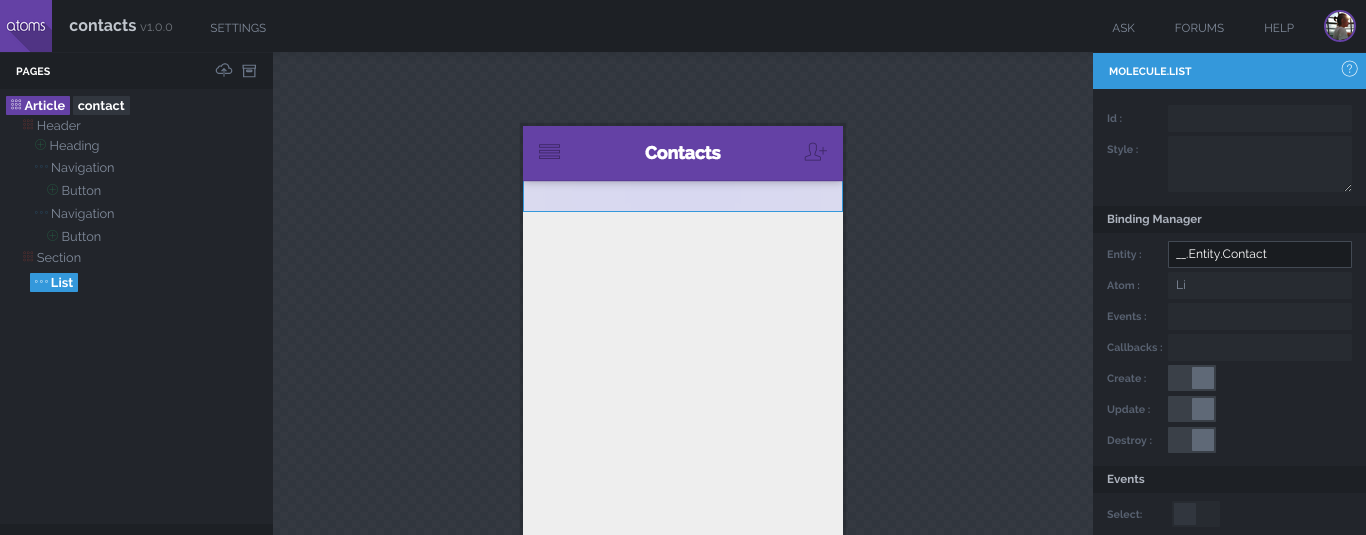
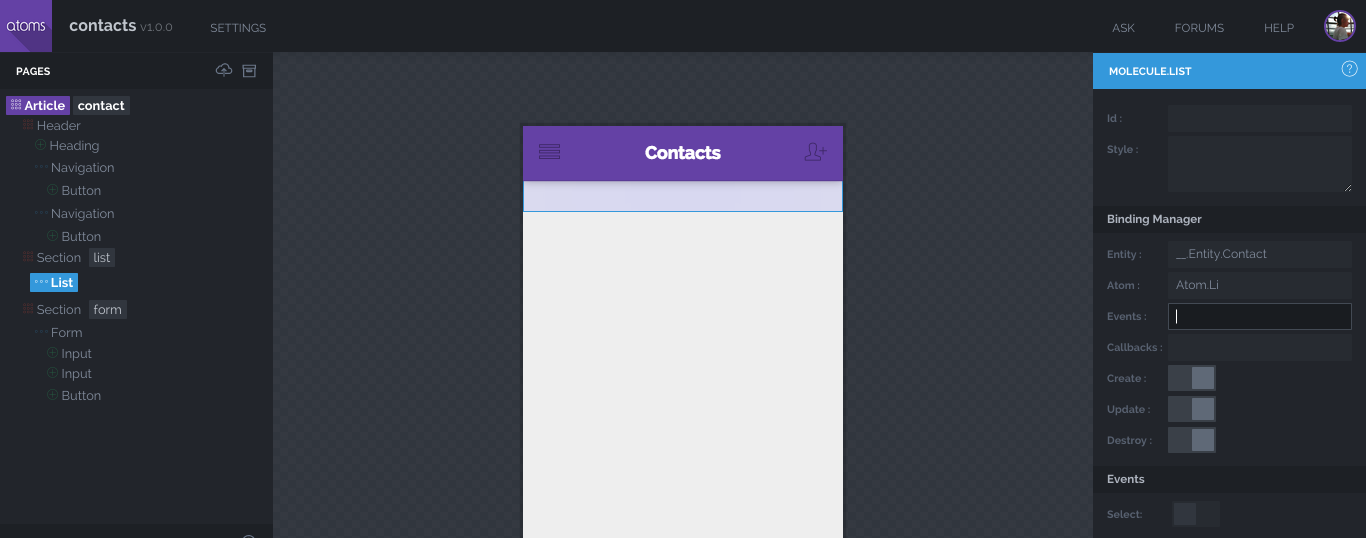
Create a contact

diff --git a/zen.js b/zen.js
@@ -1,0 +1,3 @@
+"use strict"
+
+require('zenserver').start();

diff --git a/README.md b/README.md
@@ -114,7 +114,7 @@ Al ejecutar el comando `gulp` se nos levantará un server en el puerto 8000. Com
 ![image](assets/img/screen-10.png)
 
 ## 3. Code
-Es momento de interactuar con el scaffod y el coffee. Desde nuestro editor de código, vayamos a la carpeta **Ormanisms**. Al haber creado un único organismo *contact* vemos que solamente tenemos un fichero yaml que contiene el scaffold y el coffee que tendrá la lógica.
+Es momento de interactuar con el scaffod y el coffee. Desde nuestro editor de código, vamos a la carpeta **Organisms**. Al haber creado un único organismo *contact* vemos que solamente tenemos un fichero yaml que contiene el scaffold y el coffee que tendrá la lógica.
 
 ### 3.1. Coffee
 
@@ -133,16 +133,16 @@ class Atoms.Organism.Contact extends Atoms.Organism.Article
 new Atoms.Organism.Contact()
 ```
 
-El fichero coffee viene con dos funciones declaradas. Esto es porque hemos dejado el *select* del atributo **events** activado en los tres elementos y el nombre por defecto que le asigna Atoms cuando no personalizamos el callback es *onElementEvent*:
+El fichero coffee viene con dos funciones declaradas. Esto es porque hemos dejado el *select* del atributo **events** activado en los tres elementos (buttons y form) y el nombre por defecto que le asigna Atoms cuando no personalizamos el callback es *onElementEvent*:
 
 ![image](assets/img/screen-11.png)
 
 #### 3.1.1. Capturando el evento
-Te invito a que pongas logs en la función *onFormSubmit* y veas qué nos llega al hacer click en **Save** en *event*, *dispatcher*, *hierarchy*.
+Te invito a que pongas logs en la función **onFormSubmit** y veas qué nos llega al hacer click en **Save** en *event*, *dispatcher*, *hierarchy*.
 
 Si los analizas verás que lo elementos hablan por si solos pero te confirmo que *hierarchy* te dice por qué "padres" pasa el evento.
 
-Para recuperar los datos del formulario, utiliza *dispatcher.value()*:
+Puedes recuperar los datos del formulario con *dispatcher.value()*:
 
  ```coffee
   onFormSubmit: (event, dispatcher, hierarchy...) ->
@@ -151,5 +151,214 @@ Para recuperar los datos del formulario, utiliza *dispatcher.value()*:
 
 ![image](assets/img/screen-12.png)
 
+### 3.2. Backend
+Este ejemplo pretende enseñar el flujo de comunicación desde la app hasta el backend que porcesará y almacenará los datos del formulario. Para el manejo de servidores HTTP utilizaremos [ZENServer](https://github.com/soyjavi/zen-server) que se caracteriza por ser ligero en cuanto a dependencias.
+
+Para utilizar ZENServer lo instalamos de la siguiente manera:
+
+```bash
+$ npm install zenserver --save
+```
+
+#### 3.2.1. ZENServer
+Nuestro pequeño backend tendrá una API para guardar y devolver los contactos y utilizaremos MongoDB para la persistencia de los datos.
+
+Así, siguiendo la estructura de fichero que maneja ZENServer vamos a añadir a nuestro proyecto los siguiente ficheros y directorios:
+
+```
+.
+├── api
+│   └── contact.coffee
+├── common
+│   └── models
+│       └── contact.coffee
+├── environment
+│   └── dev.yml
+├── zen.js
+├── zen.yml
+```
+Añade el siguiente contenido a los fichero zen.js y zen.yml:
+
+*zen.js*:
+
+```js
+"use strict"
+require('zenserver').start();
+```
+*zen.yml*
+
+```yaml
+# -- RESTful services ----------------------------------------------------------
+api:
+  - contact
+
+# -- Environment ---------------------------------------------------------------
+environment: dev
+
+# -- CORS Properties -----------------------------------------------------------
+headers:
+  Access-Control-Allow-Origin: "*"
+  Access-Control-Allow-Credentials: true
+  Access-Control-Allow-Methods: GET,PUT,POST,DELETE
+  Access-Control-Max-Age: 1
+  Access-Control-Allow-Headers:
+    - Accept
+    - Accept-Version
+    - Content-Length
+    - Content-MD5
+    - Content-Type
+    - Date
+    - Api-Version
+    - Response-Time
+    - Authorization
+  Access-Control-Expose-Headers:
+    - api-version
+    - content-length
+    - content-md5
+    - content-type
+    - date
+    - request-id
+    - response-time
+```
+Para saber más sobre ZENServer, no olvides consultar su [documentación](https://github.com/soyjavi/zen-server/tree/master/documentation/ES) ;)
+
+Siguiendo con la configuración de los demás ficheros, nos queda establecer los datos del entorno dev. Así, *dev.yml* contiene la siguiente información:
+
+```yaml
+# -- General Info --------------------------------------------------------------
+host    : localhost
+port    : 8888
+timezone: Europe/Amsterdam
+
+# -- Services ------------------------------------------------------------------
+mongo:
+  - name    : primary
+    host    : 127.0.0.1
+    port    : 27017
+    db      : contact
+```
+Si tu MongoDB requiere autenticación, añade los campos `user` y `password` a `mongo`.
+
+#### 3.2.2. API y Modelo
+Empecemos a establecer los parámetros de nuestro modelo de Mongo. Para este ejemplo he querido hacerlo súper sencillo y por lo tanto mi modelo lo he configurado de la siguiente manera:
+
+```coffee
+"use strict"
+
+Hope    = require("zenserver").Hope
+Schema  = require("zenserver").Mongoose.Schema
+db      = require("zenserver").Mongo.connections.primary
+
+Contact = new Schema
+  name      : type: String
+  avatar    : type: String
+  phone     : type: Number
+  updated_at: type: Date
+  created_at: type: Date, default: Date.now
+
+# -- Static methods ------------------------------------------------------------
+Contact.statics.register = (parameters) ->
+  promise = new Hope.Promise()
+  today = new Date()
+  parameters.avatar = "http://robohash.org/#{today.getMilliseconds()}.png"
+  contact = db.model "Contact", Contact
+  new contact(parameters).save (error, value) -> promise.done error, value
+  promise
+
+Contact.statics.search = (filter) ->
+  promise = new Hope.Promise()
+  @find(filter).exec (error, value) -> promise.done error, value
+  promise
+
+# -- Static methods ------------------------------------------------------------
+Contact.methods.parse = ->
+  name      : @name
+  avatar    : @avatar
+  phone     : @phone
+  updated_at: @updated_at
+  created_at: @created_at
+
+exports = module.exports = db.model "Contact", Contact
+```
+Y mi fichero con los endpoints ha quedado así:
+
+```coffee
+"use strict"
+
+Contact = require "../common/models/contact"
+
+module.exports = (server) ->
+
+  server.get "/api/contact", (request, response) ->
+    Contact.search().then (error, result) ->
+      if error
+        response.json message: error.message, error.code
+      else
+        response.json contacts: (contact.parse() for contact in result)
 
 
+  server.post "/api/contact", (request, response) ->
+    if request.required ["name", "phone"]
+      Contact.register(request.parameters).then (error, result) ->
+        if error
+          response.json message: error.message, error.code
+        else
+          response.json contact: result.parse()
+```
+
+### 3.3. Vuelta al front
+Para comunicarnos con la API nos ayudaremos del fichero *app.proxy.coffee* que trae Atoms IDE. Para ese ejercicio nos bastará con configurar la url del server:
+
+```coffee
+...
+    $$.ajax
+      url         : "http://127.0.0.1:8888/api/#{method}"
+...
+```
+
+#### 3.3.1. Enviando los datos al servidor
+Ya podemos intentar enviar los datos de un contacto a la base de datos. Para ello debemos recuperar los datos del formulario y pasarlos al proxy:
+
+```coffee
+  onFormSubmit: (event, dispatcher, hierarchy...) ->
+    __.proxy("POST", "contact", dispatcher.value()).then (error, result) ->
+      console.log ">>", error, result
+```
+Ahora, con gulp corriendo en una terminal y en otra con el server levantado:
+
+```bash
+$ node zen zen
+```
+
+Vamos a ver qué pasa al completar el formulario y darle al *Save*:
+
+![image](assets/img/screen-13.png)
+
+Por lo que parece, todo ha ido bien. Si nos fijamos en la respuesta del server, éste nos devuelve un 200 a la llamada `POST` al endpoint `/api/contact`. Por otro lado vemos en el log de la consola del navegador que tenemos los datos del usuario. Construyamos entonces la nueva entidad.
+
+#### 3.3.2. Entity
+Para añadir a la lista el nuevo contacto creado, previamente debemos crear la **Entity Contact**. En la carpeta entity creamos el fichero *contact.coffee* y añadimos el siguiente contenido:
+
+```coffee
+"use strict"
+
+class __.Entity.Contact extends Atoms.Class.Entity
+
+  @fields "name", "phone", "avatar"
+
+  parse: ->
+    image       : @avatar
+    text        : @name
+    description : @phone
+```
+El template de un Atom Li acepta además de los atributos declarados en el parse el atributo *icon*. Lo puedes comprobar [aquí](https://github.com/tapquo/atoms-app/blob/master/atom/li.coffee).
+
+Recordemos que la *Molecule List* está suscrita a los eventos de **create**, **update** y **destroy** así que, para añadir el nuevo elemento a la lista, basta con llamar al método *create* de la Entity:
+
+```coffee
+  onFormSubmit: (event, dispatcher, hierarchy...) ->
+    __.proxy("POST", "contact", dispatcher.value()).then (error, value) ->
+      if value
+        __.Entity.Contact.create value.contact
+        Atoms.Url.path "contact/list"
+```
